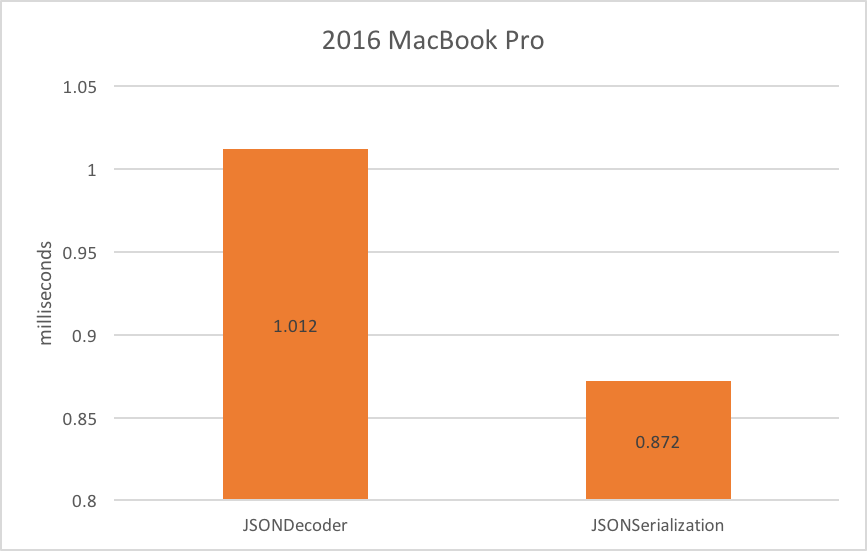
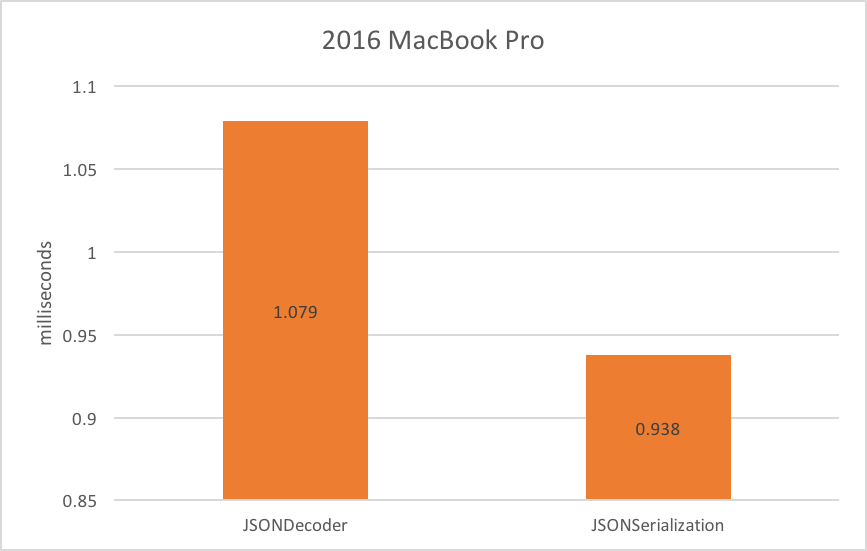
Update macOS graph

diff --git a/Tests/jsonPerfTests/LargeTests.swift b/Tests/jsonPerfTests/LargeTests.swift
@@ -11,18 +11,20 @@ class LargeTests: XCTestCase {
         ("testDecoderCorrectness", testDecoderCorrectness),
         ("testJSONSerializationCorrectness", testJSONSerializationCorrectness)
     ]
+
+    let decoder = JSONDecoder()
 }
 
 // MARK: - JSONDecoder
 extension LargeTests {
     func testDecoder() {
         self.measure {
-            _ = try? JSONDecoder().decode(Large.self, from: largeData)
+            _ = try? self.decoder.decode(Large.self, from: largeData)
         }
     }   // .994s
 
     func testDecoderCorrectness() {
-        let large = try? JSONDecoder().decode(Large.self, from: largeData)
+        let large = try? decoder.decode(Large.self, from: largeData)
         XCTAssert(large?.programList.programs.count ?? 0 == 4710)
     }
 }
